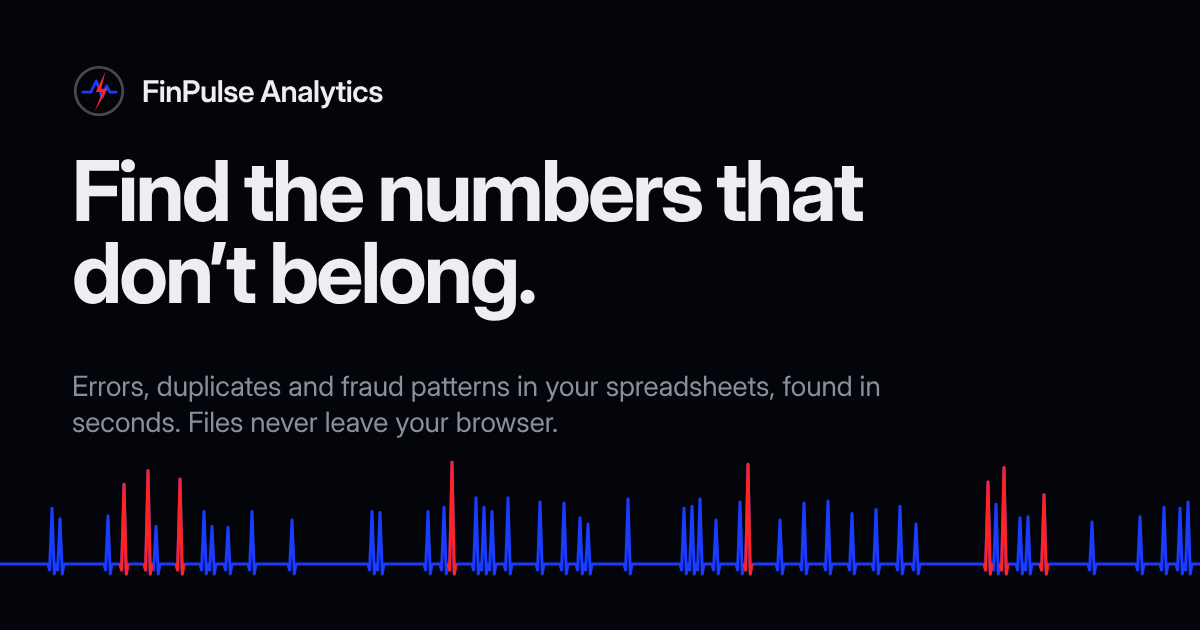
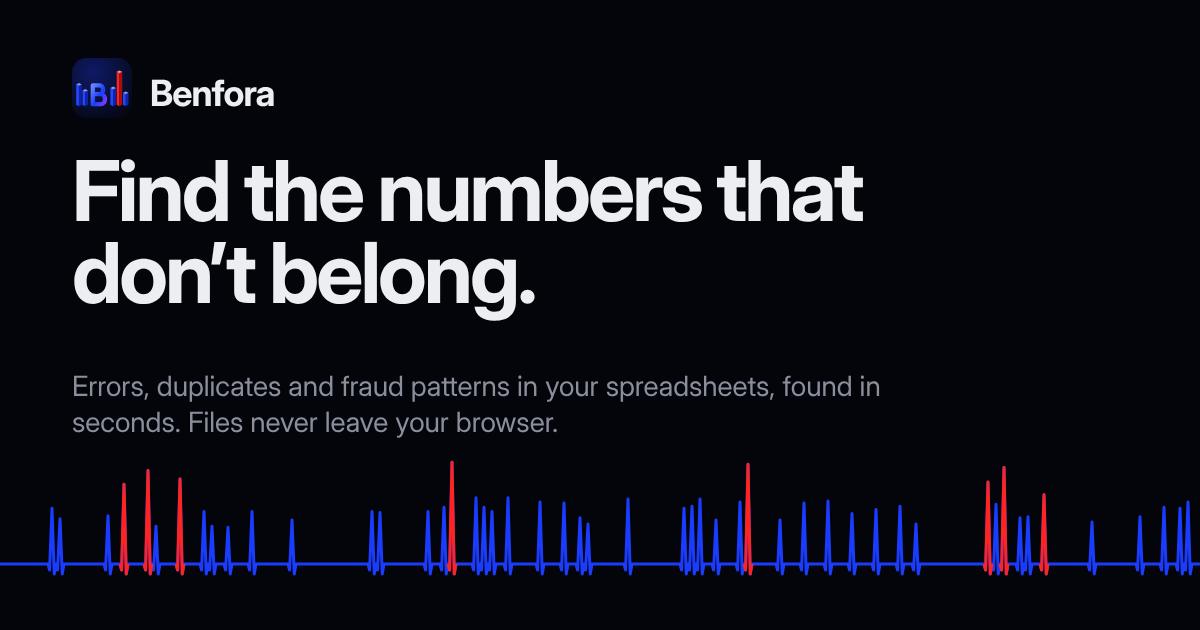
Add files via upload

Changed region(s): [[0.0617, 0.0905, 0.3392, 0.181]]

diff --git a/components/brand/BrandMark.tsx b/components/brand/BrandMark.tsx
@@ -1,17 +1,89 @@
-/** Vector FinPulse mark (ring, pulse line, bolt). Crisp at 16px favicons and 512px PWA icons alike. */
-export function BrandMark({ size = 40, className }: { size?: number; className?: string }) {
+'use client';
+
+import { useId } from 'react';
+
+/**
+ * Benfora mark: a compact "B" standing in a skyline of isometric bars, with one red bar
+ * rising above the rest. That's the product in one picture: the number that doesn't fit.
+ *
+ * variant "full" for 48px and up; "mini" (just the B and the red bar) stays crisp at
+ * browser-tab sizes; "auto" picks based on size.
+ */
+type Variant = 'auto' | 'full' | 'mini';
+
+const BLUE = ['#7D93FF', '#2347FF', '#0F25A8'];
+const RED = ['#FF8A8A', '#FF2323', '#A80E0E'];
+const B_PATH = 'M33 22 V78 M33 22 H53 C67 22 67 48 53 48 H33 M33 48 H57 C73 48 73 78 57 78 H33';
+
+type Pt = [number, number];
+const pts = (p: Pt[]) => p.map((q) => q.join(',')).join(' ');
+
+function isoBar(x: number, y: number, w: number, h: number, red: boolean, key: string) {
+  const c = red ? RED : BLUE;
+  const L: Pt = [x, y];
+  const F: Pt = [x + w, y + w / 2];
+  const R: Pt = [x + 2 * w, y];
+  const Bk: Pt = [x + w, y - w / 2];
+  const up = (q: Pt): Pt => [q[0], q[1] - h];
   return (
-    <svg width={size} height={size} viewBox="0 0 100 100" className={className} role="img" aria-label="FinPulse">
-      <circle cx="50" cy="50" r="44" fill="none" stroke="#4A4A4A" strokeWidth="5" />
-      <polyline
-        points="20,52 35,52 45,31 56,62 64,40 70,52 82,52"
-        fill="none"
-        stroke="#1A3CFF"
-        strokeWidth="5"
-        strokeLinecap="round"
-        strokeLinejoin="round"
-      />
-      <polygon points="62,14 44,52 56,52 42,88 66,46 54,46" fill="#FF2323" />
+    <g key={key}>
+      <polygon points={pts([L, F, up(F), up(L)])} fill={c[1]} />
+      <polygon points={pts([F, R, up(R), up(F)])} fill={c[2]} />
+      <polygon points={pts([up(L), up(F), up(R), up(Bk)])} fill={c[0]} />
+    </g>
+  );
+}
+
+export function BrandMark({
+  size = 40,
+  variant = 'auto',
+  tile = true,
+  className,
+}: {
+  size?: number;
+  variant?: Variant;
+  tile?: boolean;
+  className?: string;
+}) {
+  const id = useId().replace(/:/g, '');
+  const mode = variant === 'auto' ? (size < 48 ? 'mini' : 'full') : variant;
+
+  return (
+    <svg width={size} height={size} viewBox="0 0 100 100" className={className} role="img" aria-label="Benfora">
+      <defs>
+        <radialGradient id={`t${id}`} cx="35%" cy="25%" r="95%">
+          <stop offset="0" stopColor="#0E1A66" />
+          <stop offset="1" stopColor="#04050A" />
+        </radialGradient>
+        <linearGradient id={`b${id}`} x1="0" y1="0" x2="1" y2="1">
+          <stop offset="0" stopColor="#6A84FF" />
+          <stop offset=".55" stopColor="#1A3CFF" />
+          <stop offset="1" stopColor="#7A3CFF" />
+        </linearGradient>
+      </defs>
+      {tile && <rect width="100" height="100" rx="24" fill={`url(#t${id})`} />}
+
+      {mode === 'full' ? (
+        <>
+          {[
+            [7, 34, false],
+            [17.5, 24, false],
+            [64, 28, false],
+            [74.5, 55, true],
+            [85, 20, false],
+          ].map(([x, h, red], i) => isoBar(x as number, 78, 4.6, h as number, red as boolean, `b${i}`))}
+          <g transform={`translate(16.3 ${80 - 83.5 * 0.56}) scale(0.56)`}>
+            <path d={B_PATH} fill="none" stroke={`url(#b${id})`} strokeWidth={13} strokeLinecap="round" strokeLinejoin="round" />
+          </g>
+        </>
+      ) : (
+        <>
+          <g transform="translate(2 4) scale(0.86)">
+            <path d={B_PATH} fill="none" stroke={`url(#b${id})`} strokeWidth={14} strokeLinecap="round" strokeLinejoin="round" />
+          </g>
+          {isoBar(74, 80, 6.5, 58, true, 'red')}
+        </>
+      )}
     </svg>
   );
 }

diff --git a/lib/engine/export.ts b/lib/engine/export.ts
@@ -71,7 +71,7 @@ export function buildExcelExport(wb: ParsedWorkbook, result: AnalysisResult, rev
     used,
     'Summary',
     [
-      ['FinPulse audit export', ''],
+      ['Benfora audit export', ''],
       ['File', wb.fileName],
       ['Generated', new Date(result.generatedAt)],
       ['Rows scanned', s.totalRows],
@@ -107,7 +107,7 @@ export function buildExcelExport(wb: ParsedWorkbook, result: AnalysisResult, rev
       book,
       used,
       'Patterns',
-      [['Sheet', 'Pattern', 'Rows', 'Explanation', 'Search term in FinPulse'], ...result.patterns.map((p) => [p.sheet, p.title, p.rowCount, p.detail, p.filter])],
+      [['Sheet', 'Pattern', 'Rows', 'Explanation', 'Search term in Benfora'], ...result.patterns.map((p) => [p.sheet, p.title, p.rowCount, p.detail, p.filter])],
       { filter: true, widths: [16, 48, 8, 90, 24] },
     );
   }
@@ -169,7 +169,7 @@ export function buildExcelExport(wb: ParsedWorkbook, result: AnalysisResult, rev
   for (const r of result.rowRisks) riskByKey.set(r.key, r);
   for (const sheet of wb.sheets) {
     const dates = dateColumns(sheet);
-    const table: Table = [[...sheet.headers, 'FinPulse risk', 'FinPulse severity', 'FinPulse reason']];
+    const table: Table = [[...sheet.headers, 'Benfora risk', 'Benfora severity', 'Benfora reason']];
     for (let i = 0; i < sheet.rowCount; i++) {
       const r = riskByKey.get(`${sheet.name}\u0000${i}`);
       table.push([
@@ -182,8 +182,8 @@ export function buildExcelExport(wb: ParsedWorkbook, result: AnalysisResult, rev
     addSheet(book, used, `${sheet.name} + risk`, table, { filter: true });
   }
 
-  book.Props = { Title: `FinPulse audit export: ${wb.fileName}`, Author: 'FinPulse Analytics', CreatedDate: new Date() };
+  book.Props = { Title: `Benfora audit export: ${wb.fileName}`, Author: 'Benfora', CreatedDate: new Date() };
   const buffer = XLSX.write(book, { type: 'array', bookType: 'xlsx', compression: true }) as ArrayBuffer;
   const stem = wb.fileName.replace(/\.[^.]+$/, '');
-  return { buffer, fileName: `${stem} - FinPulse audit.xlsx` };
+  return { buffer, fileName: `${stem} - Benfora audit.xlsx` };
 }

diff --git a/lib/site.ts b/lib/site.ts
@@ -3,17 +3,17 @@
  * Leave contactEmail or linkedinUrl empty ('') to hide that link.
  */
 export const SITE = {
-  name: 'FinPulse Analytics',
-  ownerName: 'Agamjot Kaur',
-  contactEmail: 'agamkalsi07@gmail.com', // e.g. 'amrit@example.com'
-  linkedinUrl: 'www.linkedin.com/in/agamjot-kaur-190261335', // e.g. 'https://www.linkedin.com/in/your-profile'
+  name: 'Benfora',
+  ownerName: 'Agamjot',
+  contactEmail: '', // e.g. 'amrit@example.com'
+  linkedinUrl: '', // e.g. 'https://www.linkedin.com/in/your-profile'
   tagline: 'Find the numbers that don’t belong.',
   description:
-    'FinPulse scans financial spreadsheets for errors, duplicates and fraud patterns in seconds, and explains every flag in plain English. Files never leave your browser.',
+    'Benfora scans financial spreadsheets for errors, duplicates and fraud patterns in seconds, and explains every flag in plain English. Files never leave your browser.',
 };
 
 export function contactHref(): string | null {
-  if (SITE.contactEmail) return `mailto:${SITE.contactEmail}?subject=${encodeURIComponent('FinPulse')}`;
+  if (SITE.contactEmail) return `mailto:${SITE.contactEmail}?subject=${encodeURIComponent('Benfora')}`;
   if (SITE.linkedinUrl) return SITE.linkedinUrl;
   return null;
 }

diff --git a/components/report/AuditReport.tsx b/components/report/AuditReport.tsx
@@ -86,10 +86,8 @@ export function AuditReport({ result, reviews, preparedBy }: Props) {
     <article className="fp-report text-[9.5pt] leading-[1.45]" style={{ color: INK, fontVariantNumeric: 'tabular-nums' }}>
       <header className="flex items-center justify-between border-b pb-4" style={{ borderColor: RULE }}>
         <div className="flex items-center gap-2.5">
-          <span className="rounded-full bg-[#04050A] p-1">
-            <BrandMark size={26} />
-          </span>
-          <span className="text-[12pt] font-semibold">FinPulse Analytics</span>
+          <BrandMark size={34} variant="mini" />
+          <span className="text-[12pt] font-semibold">Benfora</span>
         </div>
         <div className="text-right text-[8.5pt]" style={{ color: MUTED }}>
           Anomaly audit report

diff --git a/components/report/ReportPreview.tsx b/components/report/ReportPreview.tsx
@@ -7,6 +7,7 @@ import type { Reviews } from '@/lib/ui/review';
 import { AuditReport } from './AuditReport';
 import { track } from '@/lib/analytics';
 
+// Storage key kept from the original name so saved settings carry over.
 const PREPARER_KEY = 'finpulse:prepared-by';
 
 interface Props {
@@ -46,7 +47,7 @@ export function ReportPreview({ result, reviews, onClose }: Props) {
     // Chrome and Safari use the page title as the suggested PDF file name.
     const previous = document.title;
     const stem = result.workbook.fileName.replace(/\.[^.]+$/, '');
-    document.title = `${stem} - FinPulse audit report`;
+    document.title = `${stem} - Benfora audit report`;
     const restore = () => {
       document.title = previous;
       window.removeEventListener('afterprint', restore);

diff --git a/lib/ui/narrative.ts b/lib/ui/narrative.ts
@@ -11,7 +11,7 @@ export function buildNarrative(result: AnalysisResult, reviews: Reviews): string
   const sheets = result.workbook.sheets.length;
 
   out.push(
-    `FinPulse scanned ${fmtInt(s.totalRows)} rows${sheets > 1 ? ` across ${sheets} sheets` : ''} of ${result.workbook.fileName} with ${DETECTOR_COUNT} detection models. ` +
+    `Benfora scanned ${fmtInt(s.totalRows)} rows${sheets > 1 ? ` across ${sheets} sheets` : ''} of ${result.workbook.fileName} with ${DETECTOR_COUNT} detection models. ` +
       (s.flaggedRows
         ? `${fmtInt(s.flaggedRows)} rows (${share}%) were flagged for review, including ${fmtInt(s.bySeverity.critical)} critical and ${fmtInt(s.bySeverity.high)} high-risk rows.`
         : 'No rows crossed the configured risk thresholds.'),

diff --git a/app/globals.css b/app/globals.css
@@ -12,7 +12,7 @@ body {
   -webkit-font-smoothing: antialiased;
 }
 
-/* Pulse strip: a single sweep-in on load, like a heart monitor drawing its trace. */
+/* Risk trace: a single sweep-in on load, like a heart monitor drawing its trace. */
 .fp-reveal {
   transform-origin: 0 0;
   animation: fp-reveal 1.4s cubic-bezier(0.2, 0.7, 0.2, 1) both;
@@ -48,7 +48,7 @@ body.fp-report-open {
   margin: 15mm 14mm 17mm;
 
   @bottom-left {
-    content: 'FinPulse Analytics, anomaly audit report';
+    content: 'Benfora, anomaly audit report';
     font-size: 7.5pt;
     color: #6b707c;
   }

diff --git a/app/page.tsx b/app/page.tsx
@@ -23,8 +23,8 @@ export default function HomePage() {
     <div className="min-h-screen bg-ink text-paper">
       <div className="mx-auto max-w-7xl px-5 pb-24 pt-8 md:px-8">
         <header className="flex items-center gap-3">
-          <BrandMark size={34} />
-          <span className="text-lg font-semibold tracking-tight [font-stretch:110%]">FinPulse</span>
+          <BrandMark size={38} />
+          <span className="text-lg font-semibold tracking-tight [font-stretch:110%]">{SITE.name}</span>
           {contact && (
             <a
               href={contact}

diff --git a/app/layout.tsx b/app/layout.tsx
@@ -27,7 +27,13 @@ export const metadata: Metadata = {
   },
   twitter: { card: 'summary_large_image', title: SITE.name, description: SITE.description },
   manifest: '/manifest.json',
-  icons: { icon: '/icons/icon-192.png', apple: '/icons/icon-192.png' },
+  icons: {
+    icon: [
+      { url: '/icons/favicon-32.png', sizes: '32x32', type: 'image/png' },
+      { url: '/icons/icon-192.png', sizes: '192x192', type: 'image/png' },
+    ],
+    apple: '/icons/apple-touch-icon.png',
+  },
 };
 
 export const viewport: Viewport = {

diff --git a/hooks/useReviews.ts b/hooks/useReviews.ts
@@ -8,6 +8,7 @@ import { EMPTY_REVIEW, type Review, type Reviews } from '@/lib/ui/review';
  * Keyed by file name and size so re-opening the same workbook restores the work.
  */
 export function useReviews(fileName: string, sizeBytes: number) {
+  // Key kept from the original name so reviews saved before the rebrand still load.
   const storageKey = `finpulse:reviews:${fileName}:${sizeBytes}`;
   const [reviews, setReviews] = useState<Reviews>({});
 

diff --git a/components/upload/SampleFiles.tsx b/components/upload/SampleFiles.tsx
@@ -15,7 +15,7 @@ const SAMPLES = [
   },
 ];
 
-/** One-click demo data, so visitors from LinkedIn can try FinPulse without their own files. */
+/** One-click demo data, so visitors from LinkedIn can try Benfora without their own files. */
 export function SampleFiles({ onFile, disabled }: { onFile: (f: File) => void; disabled?: boolean }) {
   const [loading, setLoading] = useState<string | null>(null);
   const [error, setError] = useState(false);

diff --git a/lib/analytics.ts b/lib/analytics.ts
@@ -1,7 +1,7 @@
 /**
  * Anonymous product analytics.
  *
- * Privacy rules (FinPulse's whole promise is that files never leave the browser):
+ * Privacy rules (Benfora's whole promise is that files never leave the browser):
  *  - Only event names and coarse buckets are sent: never file names, column names,
  *    values, reasons or anything from inside a spreadsheet.
  *  - No cookies: PostHog runs with in-memory persistence, no autocapture and no
